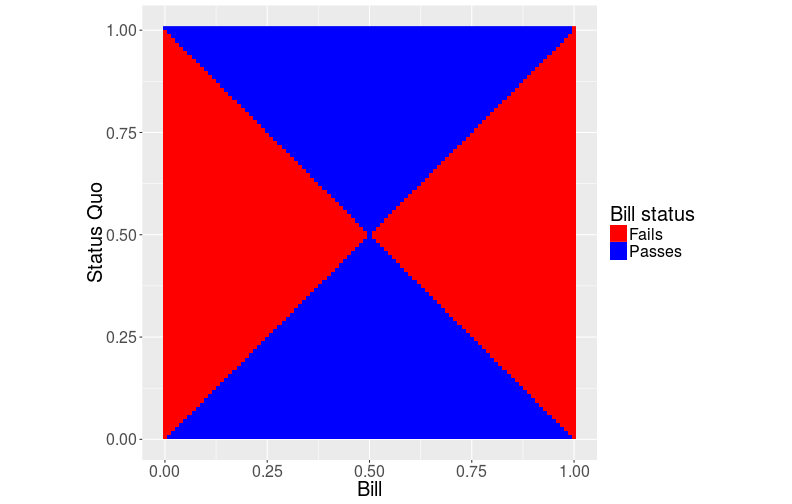
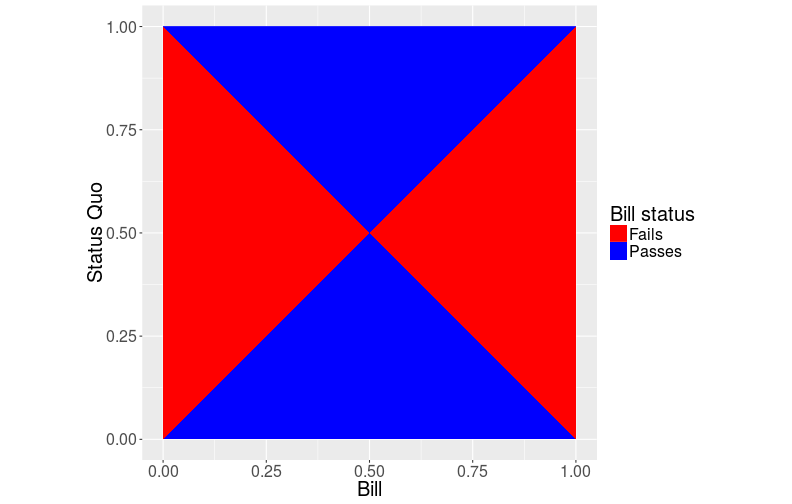
Higher resolution

diff --git a/_posts/2016-02-19-revisiting-pivotal-politics.md b/_posts/2016-02-19-revisiting-pivotal-politics.md
@@ -42,8 +42,8 @@ A support of -0.2 has the same legislator being the "border", but everyone small
 In this plot, we only care about majority support, so it looks rather simple.
 
 {% highlight r %}
-precision <- 100
-points <- expand.grid(b = 0:precision/precision, s = 0:precision/precision + 0.5/precision)
+precision <- 1000
+points <- expand.grid(b = 0:precision/precision, s = 0:precision/precision + 1/(2*precision))
 points$support <- sign(points$b-points$s)*(points$b + points$s)/2
 points <- mutate(points, majority = (support%%1)<0.5) %>%
   mutate(status = ifelse(majority, "Passes", "Fails"))
